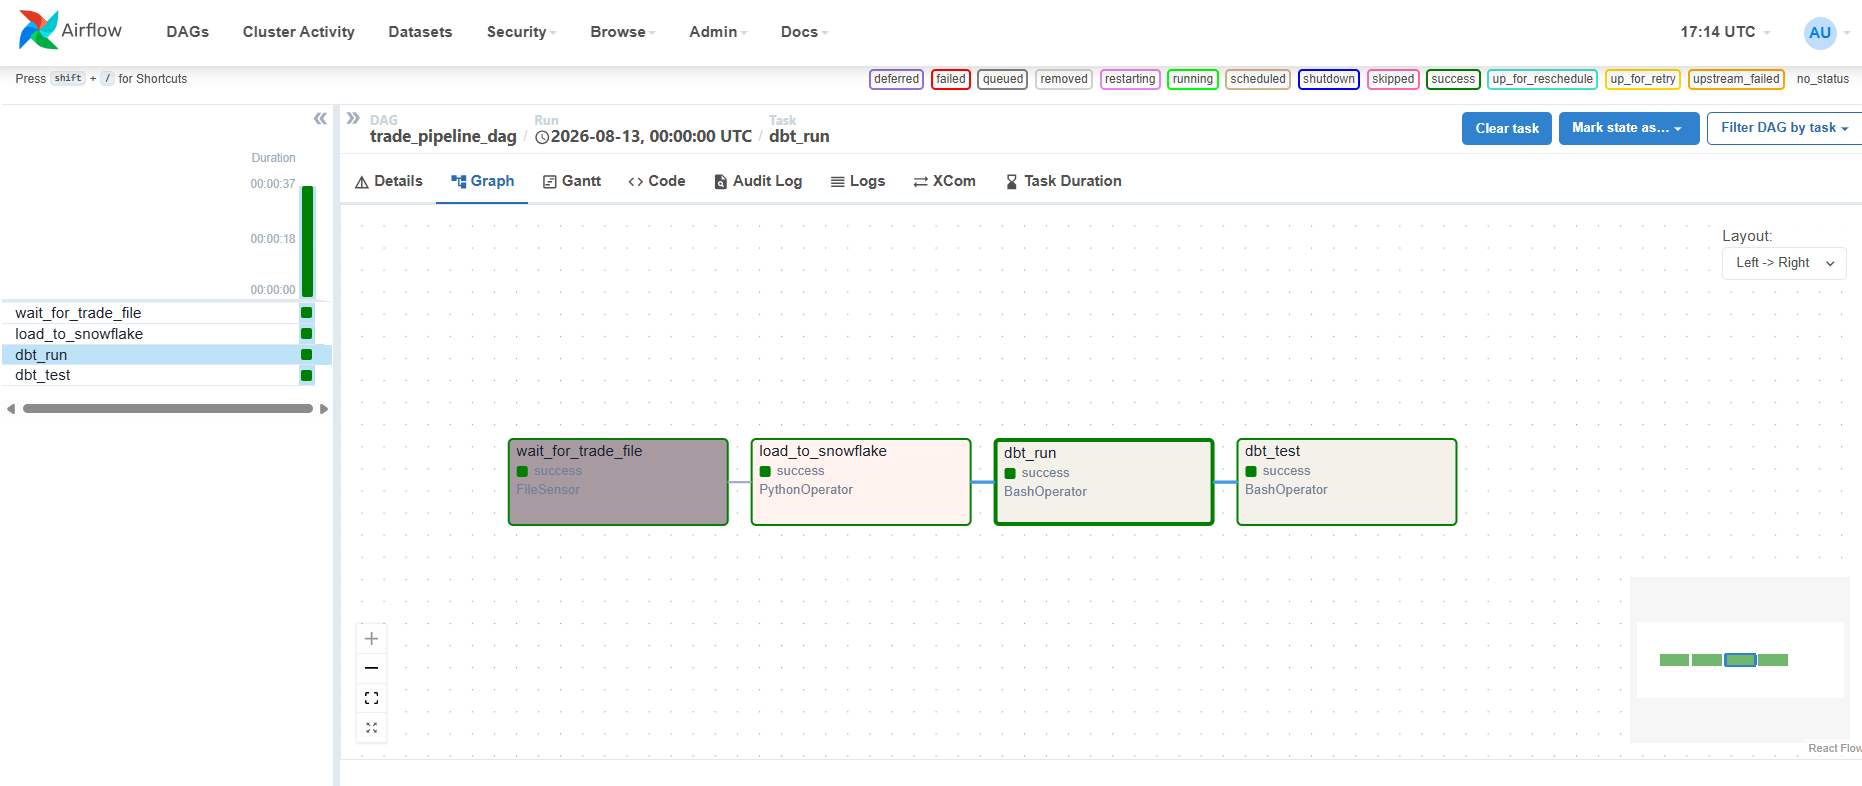
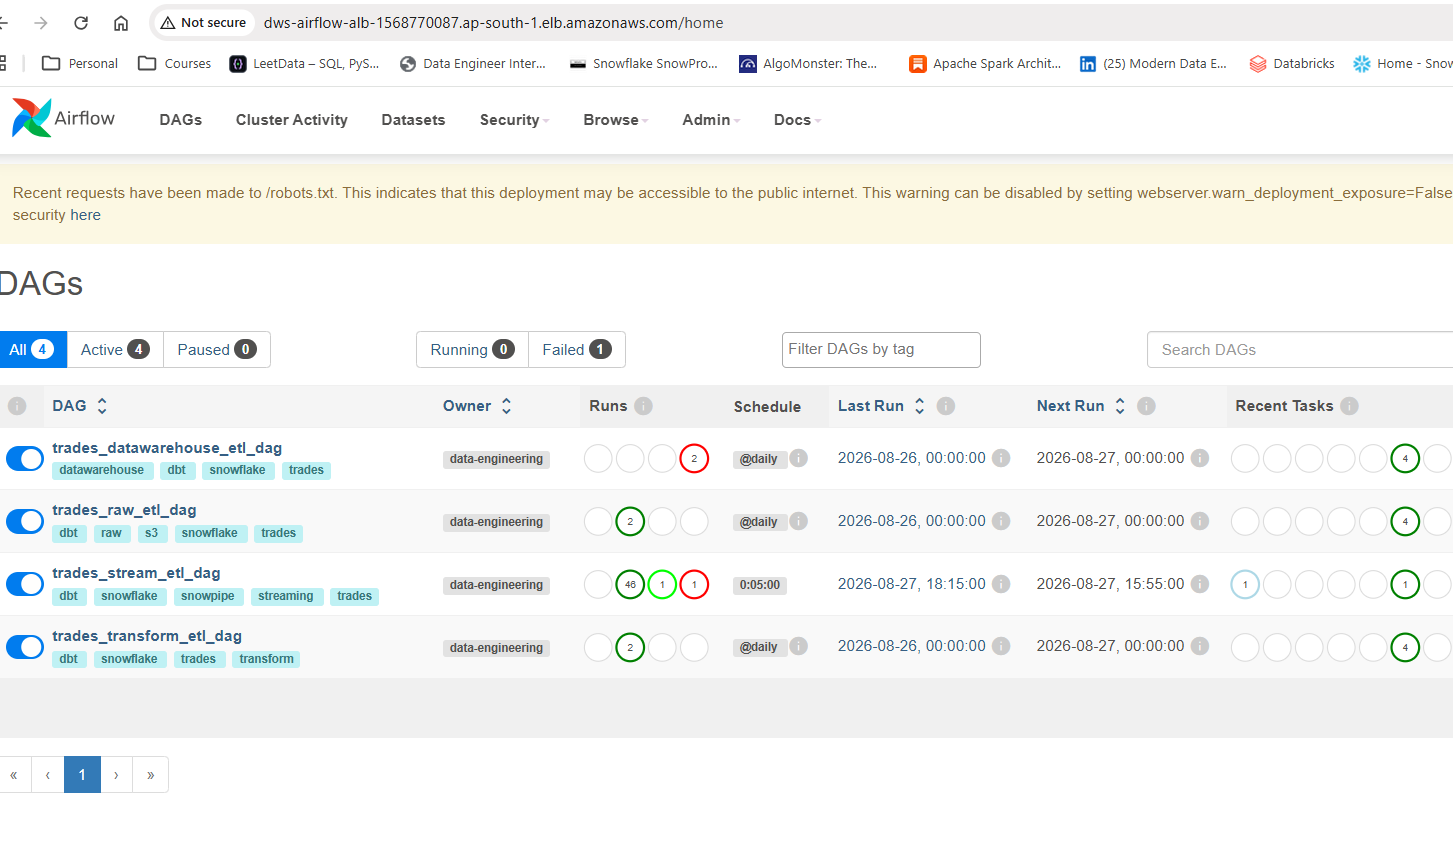
documentation update

diff --git a/README.md b/README.md
@@ -1,6 +1,6 @@
 # Trade Data ETL Pipeline
 
-Cloud-native ETL pipeline for daily trade data ingestion, validation, and reporting using Snowflake, dbt, Airflow, and Terraform.
+Cloud-native ETL pipeline for daily trade data ingestion, validation, reporting, and access control using Snowflake, dbt, Airflow, Terraform, and GitHub Actions.
 
 ---
 
@@ -14,20 +14,35 @@ View the live dbt docs: [dbt Docs](https://ranganathhittanagi.github.io/dws_data
 
 ![Architecture Diagram](docs/architecture_diagram.png)
 
+The pipeline is deployed on AWS EC2 and orchestrated by Apache Airflow:
+
+1. **GitHub Actions** runs `.github/workflows/dbt-ci.yml` (`dbt deps`, `dbt parse`, `dbt docs generate`) on every PR to `master` and before any deploy.
+2. On a push to `master`, `.github/workflows/deploy.yml` first runs the dbt CI job, then deploys the latest code to the `airflow-control` and `dev-ec2-instance` EC2 nodes via SSM Run Command.
+3. The EC2 instances bootstrap themselves: they install Docker, clone the repo, fetch runtime secrets from AWS SSM Parameter Store, and start the Airflow stack.
+4. Airflow DAGs orchestrate the daily workflow:
+   - `trades_raw_etl_dag` waits for a CSV trade file in S3 and runs the dbt raw layer.
+   - `trades_transform_etl_dag` cleans, parses, and validates records in the dbt transform layer.
+   - `trades_datawarehouse_etl_dag` publishes `valid_trades`, `rejected_trades`, and post-publication audit models.
+   - `trades_stream_etl_dag` ingests streaming trade files via Snowpipe.
+5. Snowflake stores all trade data across `RAW_DB`, `TRANSFORM_DB`, `DATAWAREHOUSE_DB`, and `COMPLIANCE_DB`.
+6. dbt applies Snowflake access controls: dynamic data masking on `COUNTERPARTY` and `NOTIONAL`, and a row access policy on `CURRENCY` driven by a `currency_entitlements` seed.
+7. Streamlit dashboards run natively inside Snowsight, and SNS delivers pipeline and infrastructure alerts.
+
 ---
 
 ## Tech Stack Choices
 
 | Technology | Purpose |
 |---|---|
-| **Snowflake** | Cloud data warehouse with native stages, `COPY INTO`, and Streamlit apps — zero infrastructure management |
-| **Terraform** | Infrastructure as code for provisioning databases, schemas, roles, users, stages, and grants reproducibly |
-| **dbt** | SQL-based transformations with incremental materializations, built-in testing, and custom `copy_into_table` materialization for raw data loading |
-| **Apache Airflow** | Orchestrates the pipeline (file sensing → upload → dbt run → dbt test) with retries, timeouts, and email alerts |
+| **Snowflake** | Cloud data warehouse with native stages, `COPY INTO`, dynamic data masking, row access policies, and Streamlit apps |
+| **Terraform** | Infrastructure as code for provisioning databases, schemas, roles, users, EC2 instances, IAM roles, S3 buckets, stages, and grants reproducibly |
+| **dbt** | SQL-based transformations with incremental materializations, built-in testing, custom `copy_into_table` materialization, and access-control macros |
+| **Apache Airflow** | Orchestrates the pipeline (file sensing → dbt run → dbt test) with CeleryExecutor, retries, timeouts, and SNS alerts |
 | **Docker** | Containerizes Airflow and all dependencies for consistent local development and deployment |
-| **GitHub Actions** | CI pipelines validate dbt models and Terraform code on every push/PR to `master` |
-| **Streamlit in Snowflake** | Serverless dashboard running natively inside Snowflake using Snowpark — no external hosting needed |
-| **RSA key-pair auth** | Secure, non-interactive Snowflake access across all components (no passwords stored) |
+| **GitHub Actions** | `dbt-ci.yml` validates dbt on PRs and before deploy; `deploy.yml` deploys to EC2 after CI passes |
+| **Streamlit in Snowflake** | Serverless dashboard running natively inside Snowflake using Snowpark |
+| **AWS SSM Parameter Store** | Stores Snowflake RSA keys and Airflow runtime secrets; nothing sensitive is committed |
+| **RSA key-pair auth** | Secure, non-interactive Snowflake access across all components |
 
 ---
 
@@ -47,7 +62,7 @@ View the live dbt docs: [dbt Docs](https://ranganathhittanagi.github.io/dws_data
 - `MATURITY_DATE` is **NULL** or unparseable → `INVALID_MATURITY_DATE`
 - `MATURITY_DATE` is **earlier than** `EXECUTION_DATE` → `MATURITY_BEFORE_EXECUTION`
 - Incoming `VERSION` is **lower than** the version already stored → `STALE_VERSION`
-- All rejected records are stored with `(TRADE_ID, VERSION)` as composite key
+- All rejected records are stored with `(SOURCE_TYPE, ROW_ID, RULE_ID, ETL_DATE)` as the composite key
 
 ---
 
@@ -55,77 +70,76 @@ View the live dbt docs: [dbt Docs](https://ranganathhittanagi.github.io/dws_data
 
 ### Prerequisites
 
-- Docker Desktop installed locally
-- Terraform (>= 1.5.0) installed locally
-- A Snowflake account with `ACCOUNTADMIN` access
-- Git installed
-- A Gmail account (for Airflow email alerting)
+- AWS account with an IAM user/role that can create EC2, VPC, IAM, S3, SSM, CloudWatch, SNS, and DLM resources.
+- Snowflake account with `ACCOUNTADMIN` access.
+- Terraform >= 1.5.0, AWS CLI, and Git installed on the deployment host.
+- An SSH key pair if you want SSH access to the EC2 instance (SSM access works without one).
+- Docker Desktop (only needed for local development).
 
-### Step 1: Clone the repository
+---
+
+### A. Deploy to AWS EC2 (recommended)
+
+This path provisions the full stack — Snowflake resources, S3 buckets, VPC, EC2 instances, IAM roles, and Airflow secrets — from a single Terraform run. The EC2 instances then self-configure via user-data.
+
+#### 1. Clone the repository
 
 ```bash
 git clone https://github.com/ranganathhittanagi/dws_dataengineering_casestudy.git
 cd dws_dataengineering_casestudy
 ```
 
-### Step 2: Generate RSA key pair
+#### 2. Prepare RSA keys and SSM parameters
 
-Generate a key pair for Snowflake key-pair authentication and store it in the `secrets/` folder.
-
-> **Note:** In production, store secrets in a secure vault (HashiCorp Vault, AWS Secrets Manager, etc.). Never commit the `secrets/` folder to version control.
+Authentication uses key-pair auth. Generate the service-user key pair and the Terraform admin key, then store them in SSM Parameter Store.
 
 ```bash
-mkdir -p secrets
+# Service user key pair (used by dbt / Airflow at runtime)
+openssl genrsa 2048 | openssl pkcs8 -topk8 -inform PEM -out /tmp/dws_service_user.p8 -nocrypt
+openssl rsa -in /tmp/dws_service_user.p8 -pubout -out /tmp/dws_service_user.pub
 
-# Generate private key (PKCS#8 format, no passphrase)
-openssl genrsa 2048 | openssl pkcs8 -topk8 -inform PEM -out secrets/rsa_key.p8 -nocrypt
+aws ssm put-parameter --name /dws/snowflake/dws-service-user/private_key \
+  --type SecureString --value file:///tmp/dws_service_user.p8 --overwrite
+aws ssm put-parameter --name /dws/snowflake/dws-service-user/public_key \
+  --type SecureString --value file:///tmp/dws_service_user.pub --overwrite
 
-# Extract public key
-openssl rsa -in secrets/rsa_key.p8 -pubout -out secrets/rsa_key.pub
+# Terraform admin key (must belong to a Snowflake user with ACCOUNTADMIN privileges)
+openssl genrsa 2048 | openssl pkcs8 -topk8 -inform PEM -out /tmp/dws_admin.p8 -nocrypt
+aws ssm put-parameter --name /dws/snowflake/admin/private_key \
+  --type SecureString --value file:///tmp/dws_admin.p8 --overwrite
 ```
 
-Assign the public key to the Snowflake user (login as `ACCOUNTADMIN`):
+#### 3. Configure Terraform variables
 
-```sql
-ALTER USER DWS_SERVICE_USER SET RSA_PUBLIC_KEY='<paste key without header/footer>';
+Create `terraform/terraform.tfvars`. This file is gitignored so it will never be committed.
+
+```hcl
+repo_url                = "https://github.com/ranganathhittanagi/dws_dataengineering_casestudy.git"
+alert_emails            = ["you@example.com"]
+snowflake_user          = "YOUR_SNOWFLAKE_ADMIN_USER"
+dev_ssh_public_key_path = "~/.ssh/dws-dev-ec2.pub"
 ```
 
-To get the key content without headers:
+Review `terraform/variables.tf` for additional overrides such as `aws_region`, database/schema names, and EC2 instance types.
+
+#### 4. Configure `.env`
+
+Edit the project root `.env` with your account-specific, non-sensitive values:
 
 ```bash
-grep -v "BEGIN\|END" secrets/rsa_key.pub | tr -d '\n'
-```
-
-### Step 3: Configure environment variables
-
-Edit the `.env` file in the project root:
-
-```
-SNOWFLAKE_ACCOUNT=<your_snowflake_account_identifier>
+SNOWFLAKE_ACCOUNT=YTQEMJI-TW17096
 SNOWFLAKE_USER=DWS_SERVICE_USER
 SNOWFLAKE_ROLE=DWS_SERVICE_ROLE
 SNOWFLAKE_WAREHOUSE=COMPUTE_WH
-SNOWFLAKE_PRIVATE_KEY_PATH=/opt/home/secrets/rsa_key.p8
-TRADE_DATA_DIR=data/raw
+AWS_REGION=ap-south-1
+S3_BUCKET=trades-source-dws
+S3_PREFIX=raw/trades
+SNOWFLAKE_PARAM_PATH=/dws/snowflake/dws-service-user
 ```
 
-**SNS email alerting setup (for Airflow failure alerts):**
+`deploy/fetch_runtime_env.sh` will pull the non-sensitive `SNOWFLAKE_*` and `S3_*` values from this file on each EC2 deploy. The private key is always fetched from SSM, never from `.env`.
 
-Failure alerts publish to an AWS SNS topic (managed in `terraform/sns.tf`) that fans out
-to email subscribers - no SMTP credentials required.
-
-1. Set your alert address in `terraform/terraform.tfvars`: `alert_emails = ["you@example.com"]`
-2. After `terraform apply`, AWS sends a one-time **"Subscription Confirmation"** email -
-   click the confirm link (alerts are not delivered until confirmed).
-3. For local runs, copy the topic ARN into `.env`:
-
-```
-SNS_ALERT_TOPIC_ARN=<value of `terraform output sns_alert_topic_arn`>
-```
-
-On EC2 the topic ARN is fetched from SSM Parameter Store automatically.
-
-### Step 4: Provision Snowflake infrastructure with Terraform
+#### 5. Provision with Terraform
 
 ```bash
 cd terraform
@@ -135,91 +149,99 @@ terraform apply -auto-approve
 cd ..
 ```
 
-This creates databases (`RAW_DB`, `TRANSFORM_DB`, `DATAWAREHOUSE_DB`, `COMPLIANCE_DB`), schemas, roles, users, warehouse, internal stage, file format, and all grants.
+This creates:
+- Snowflake databases, schemas, warehouse, roles, users, file formats, stages, and storage integrations.
+- S3 buckets for batch and streaming trade files.
+- VPC, subnets, security groups, and Application Load Balancer.
+- `airflow-control` EC2 instance (Postgres/Redis/Airflow webserver/scheduler/worker) and `dev-ec2-instance` (ad-hoc shell).
+- IAM instance profiles so the EC2 nodes can read SSM, S3, and CloudWatch without static AWS credentials.
+- SNS topic for alerts and SSM parameters for Airflow secrets.
 
-### Step 5: Start Docker containers
+Both instances automatically clone the repo, run `deploy/fetch_runtime_env.sh`, and start the Docker Compose stack.
 
-```bash
-docker compose up --build -d
-```
-
-Wait ~1-2 minutes for services to initialize, then verify:
-
-```bash
-# Check container is running
-docker ps
-
-# Verify dbt can connect to Snowflake
-docker exec -it dws_etl_service_container bash -c "cd /opt/home/dbt && /opt/home/dbt_venv/bin/dbt debug"
-```
-
-Open http://localhost:8080 — login with **admin / admin**.
-
-### Step 6: Generate and load sample trade data
+#### 6. Access Airflow
 
 ```bash
-# Connect to the container
-docker exec -it dws_etl_service_container bash
+# Airflow URL
+terraform output airflow_url
 
-# Generate sample trades file for a specific date
-python3 src/ingestion/generate_trades_data.py --date 2026-08-15
-
-# Upload the generated file to Snowflake internal stage
-python3 src/ingestion/load_to_snowflake.py
-
-exit
+# Initial admin password (also stored in SSM)
+aws ssm get-parameter --name /dws/airflow/webserver_admin_password \
+  --with-decryption --query Parameter.Value --output text
 ```
 
-### Step 7: Trigger the Airflow DAG
+Open the Airflow URL in a browser and log in as `admin` with the retrieved password.
 
-1. Open http://localhost:8080
-2. Find `trade_pipeline_dag`
-3. Unpause the DAG (toggle switch)
-4. Click **Play** → **Trigger DAG**
-5. The DAG executes: **sense file → upload to Snowflake → dbt run → dbt test**
+#### 7. Run the DAGs
 
-### Step 8: Verify data in Snowflake
+Generate and upload a sample trade file:
 
-Login to Snowflake UI (Snowsight) and run:
+```bash
+python src/util_scripts/generate_trades_data.py --date 2026-08-15 --rows 100
+aws s3 cp data/trades_2026-08-15.csv s3://${S3_BUCKET}/${S3_PREFIX}/trades_2026-08-15.csv
+```
+
+In the Airflow UI:
+1. Unpause `trades_raw_etl_dag`, `trades_transform_etl_dag`, and `trades_datawarehouse_etl_dag`.
+2. Trigger `trades_raw_etl_dag` for `2026-08-15`.
+3. After it succeeds, trigger `trades_transform_etl_dag` and `trades_datawarehouse_etl_dag` for the same date.
+
+The streaming DAG (`trades_stream_etl_dag`) runs automatically when files land in the streaming S3 bucket.
+
+#### 8. Verify data and access controls in Snowflake
 
 ```sql
 SELECT * FROM DATAWAREHOUSE_DB.DATAWAREHOUSE_SCHEMA.VALID_TRADES;
 SELECT * FROM COMPLIANCE_DB.COMPLIANCE_SCHEMA.REJECTED_TRADES;
+
+SHOW MASKING POLICIES IN COMPLIANCE_DB.ACCESS_CONTROL;
+SHOW ROW ACCESS POLICIES IN COMPLIANCE_DB.ACCESS_CONTROL;
 ```
 
-### Step 9: View Streamlit dashboard
+---
 
-1. In Snowsight → **Streamlit** → **+ Streamlit App**
-2. Set database: `RAW_DB`, schema: `RAW_SCHEMA`, warehouse: `COMPUTE_WH`
-3. Paste the contents of `streamlit_app_snowflake.py` into the editor
-4. Click **Run** — the dashboard displays Active, Expired, and Rejected trade metrics with a bar chart
+### Troubleshooting
 
-### Step 10: CI/CD with GitHub Actions
+- If `terraform apply` fails because the `EC2ActionsAccess` IAM role already exists, import it first:
+  ```bash
+  terraform import aws_iam_role.ec2_actions EC2ActionsAccess
+  ```
+- If Airflow tasks fail to connect to Snowflake, check that the SSM parameters exist and that `deploy/fetch_runtime_env.sh` ran during bootstrap. View the log on the instance:
+  ```bash
+  aws ssm start-session --target $(terraform output -raw control_instance_id)
+  sudo tail -n 200 /var/log/bootstrap.log
+  ```
+- To run ad-hoc dbt commands, connect to the dev instance and use the container:
+  ```bash
+  docker compose -f deploy/docker-compose.dev.yml exec dev-shell /usr/local/bin/dbt --version
+  ```
 
-Any push or PR to `master` automatically triggers:
+---
 
-- **dbt CI** (`dbt-ci.yml`) — runs `dbt deps`, `dbt parse`, `dbt compile`, `dbt test`
-- **Terraform CI** (`terraform-ci.yml`) — runs `terraform fmt -check`, `terraform init`, `terraform validate`, `terraform plan`
+## CI/CD with GitHub Actions
 
-No `terraform apply` runs in CI — infrastructure changes are applied manually (Step 4).
+Two workflows drive the repo:
 
-**Required GitHub Secrets** (Settings → Secrets → Actions):
+- **`.github/workflows/dbt-ci.yml`**: Runs on PRs to `master` and as a reusable workflow. It installs `dbt-snowflake`, loads non-sensitive settings from `.env`, fetches the Snowflake private key from SSM, and runs `dbt deps`, `dbt parse`, and `dbt docs generate`.
+- **`.github/workflows/deploy.yml`**: Triggered on pushes to `master`. It runs the dbt CI job first; only if CI succeeds does it start the EC2 instances and deploy the latest code via SSM Run Command.
+
+**Required GitHub secrets** (Settings → Secrets → Actions):
 
 | Secret | Value |
 |---|---|
-| `SNOWFLAKE_ACCOUNT` | Snowflake account identifier |
-| `SNOWFLAKE_USER` | `DWS_SERVICE_USER` |
-| `SNOWFLAKE_ROLE` | `DWS_SERVICE_ROLE` |
-| `SNOWFLAKE_WAREHOUSE` | `COMPUTE_WH` |
-| `SNOWFLAKE_PRIVATE_KEY_B64` | Base64-encoded private key: `base64 -w 0 secrets/rsa_key.p8` |
+| `AWS_ACCESS_KEY_ID` | IAM user access key with EC2, SSM, SNS, and CloudWatch permissions |
+| `AWS_SECRET_ACCESS_KEY` | Corresponding secret key |
+
+Snowflake credentials are fetched from SSM during CI, so no Snowflake secrets need to be stored in GitHub.
 
 ---
 
 ## Verification Checks
 
-- `terraform show` — lists created Snowflake resources
-- `docker compose ps` — all services healthy
-- `dbt debug` — reports `Connection test: OK`
-- Snowflake console shows `TRADES` table under `RAW_DB.RAW_SCHEMA`
-- Airflow DAG completes all tasks (green)
-- No passwords stored in `.env` or committed to git
+- `terraform plan` and `terraform apply` complete without errors.
+- `terraform output airflow_url` returns the Airflow web URL.
+- `aws ssm start-session --target $(terraform output -raw control_instance_id)` connects to the control node.
+- Airflow DAGs complete all tasks (green).
+- Snowflake shows `VALID_TRADES`, `REJECTED_TRADES`, and access-control policies under `COMPLIANCE_DB.ACCESS_CONTROL`.
+- `dbt debug` reports `Connection test: OK` when run inside the container.
+- No passwords or private keys are committed to git.
